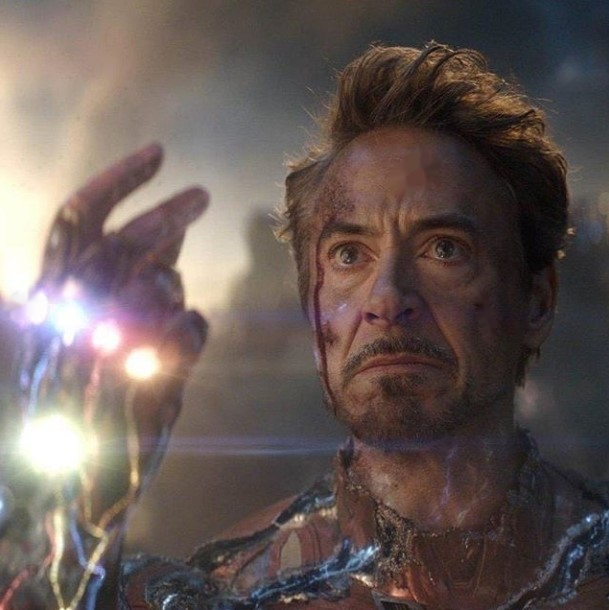
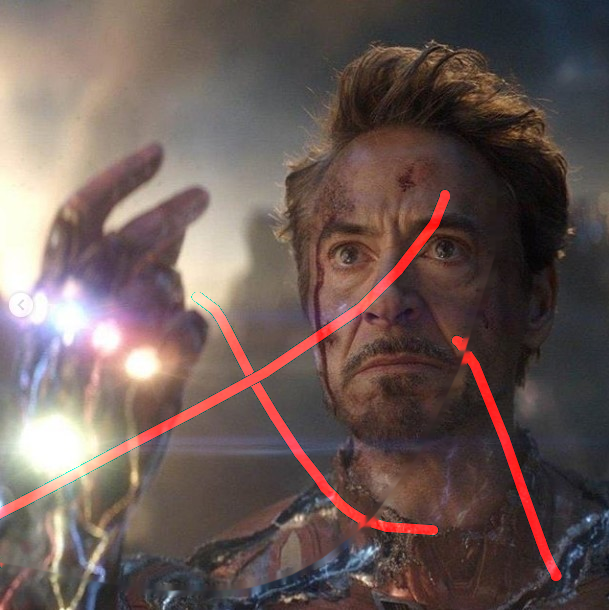
painting only on mask

diff --git a/editor.py b/editor.py
@@ -5,6 +5,7 @@ from PyQt5.QtGui import QImage, QPixmap, QPainterPath, QPen, QPainter
 import numpy as np
 import inpainter
 from qimage2ndarray import rgb_view, array2qimage
+import cv2
 
 class Editor(QtWidgets.QGraphicsView):
 
@@ -30,12 +31,13 @@ class Editor(QtWidgets.QGraphicsView):
         self.drawMode = True
         self.drawing = False
         self.brushSize = 10
-        self.brushColor = Qt.red
+        self.brushColor = "red"
         self.lastPoint = QPoint()
-
+        self.color_index = {"red":0, "green":1, "blue":2}
         #mask
         self._mask = None
         self._unmarkedImage = None
+        self.set_mask = False
 
     def hasPhoto(self):
         return not self._empty
@@ -57,6 +59,10 @@ class Editor(QtWidgets.QGraphicsView):
                 self.scale(factor, factor)
             self._zoom = 0
 
+    def setMask(self):
+        self._mask = QImage(self._photo.pixmap().size(), QImage.Format_RGB32)
+        self._mask.fill(Qt.black)
+
     def setPhoto(self, pixmap=None):
         self._zoom = 0
         if pixmap and not pixmap.isNull():
@@ -67,17 +73,10 @@ class Editor(QtWidgets.QGraphicsView):
             self._empty = True
             self.setDragMode(QtWidgets.QGraphicsView.NoDrag)
             self._photo.setPixmap(QtGui.QPixmap()) 
-        print(self._photo.pixmap().size())
-        
-        self._mask = QImage(self._photo.pixmap().size(), QImage.Format_RGB32)
-        self._mask.fill(Qt.black)
-        self._unmarkedImage = pixmap.toImage()
-        
+        print(self._photo.pixmap().size())      
+        self.setMask()
+        self._unmarkedImage = QImage(pixmap.toImage())   #pixmap.toImage()
         self.fitInView()
-
-    def setMask(self):
-        self._mask = QImage(self._photo.pixmap().size(), QImage.Format_RGB32)
-        self._mask.fill(Qt.black)
 
     def wheelEvent(self, event):
         if self.hasPhoto():
@@ -98,26 +97,27 @@ class Editor(QtWidgets.QGraphicsView):
     def mouseMoveEvent(self, event):
         if self.drawMode:
             if(event.buttons() and Qt.LeftButton) and self.drawing:
-                pixmap = self._photo.pixmap()    
-                painter = QPainter(pixmap)
-                if not painter.isActive():
-                    painter.begin(self)
-                painter.setRenderHint(QPainter.Antialiasing, True)
-                painter.setPen(QPen(self.brushColor, self.brushSize, Qt.SolidLine, Qt.RoundCap, Qt.RoundJoin))
-                painter.drawLine(self.lastPoint, self.mapToScene(event.pos()))
-                painter.end()
+                if self.set_mask:
+                    self.setMask()
+                    img = None
+                    mask = None
+                    self.set_mask = False
 
                 painter = QPainter (self._mask)
                 if not painter.isActive():
                     painter.begin(self)
-                painter.setRenderHint(QPainter.Antialiasing, False)
+                painter.setRenderHint(QPainter.Antialiasing, True)
                 painter.setPen(QPen(Qt.white, self.brushSize, Qt.SolidLine, Qt.RoundCap, Qt.RoundJoin))
                 painter.drawLine(self.lastPoint, self.mapToScene(event.pos()))
                 painter.end()
 
                 self.lastPoint = self.mapToScene(event.pos())
-                self._photo.setPixmap(pixmap)
-
+                img = rgb_view(self._unmarkedImage)
+                mask = rgb_view(self._mask)
+                channel = self.color_index[self.brushColor]
+                ind = (mask[:,:,channel]!=0)
+                img[:,:,channel][ind] = mask[:,:,channel][ind]
+                self._photo.setPixmap(QPixmap(array2qimage(mask))) #img
         super(Editor, self).mouseMoveEvent(event)        
 
     def mousePressEvent(self, event):
@@ -135,38 +135,16 @@ class Editor(QtWidgets.QGraphicsView):
         super(Editor, self).mouseReleaseEvent(event)    
 
     def inpaint(self):
-        img = rgb_view(self._unmarkedImage)
+        unmarked_img = rgb_view(self._unmarkedImage)
+        cv2.imwrite("unmarked.jpg",unmarked_img)                     # BUG_FOUND: Unmarked doesn't stay unmarked!!!
         mask = rgb_view(self._mask)
-        output = array2qimage(inpainter.inpaint(img, mask))
+        cv2.imwrite("mask.jpg",mask)
+        output = array2qimage(inpainter.inpaint(unmarked_img, mask))
+        self.set_mask = True
         output.save("output.png","PNG")
         self._photo.setPixmap(QPixmap(output))
-        
-        
 
-    def QImageToArray(self, qimage):
-        size = qimage.size()         
-        h = size.width()
-        w = size.height()          
-        byte_str = qimage.bits().tobytes()
-        img = np.frombuffer(byte_str, dtype=np.uint8).reshape((w,h,4))     
-        return img    
-
-    def QPixmapToArray(self, pixmap):
-        size = pixmap.size()         
-        h = size.width()
-        w = size.height()          
-        qimg = pixmap.toImage()       
-        byte_str = qimg.bits().tobytes()
-        img = np.frombuffer(byte_str, dtype=np.uint8).reshape((w,h,4))     
-        return img
-
-    def ArrayToQPixmap(self, img):
-        h,w = img.shape
-        return QPixmap(QImage(img.data, h, w, 3*h, QImage.Format_RGB888))  
-
-    def ArrayToQImage(self, img):
-        h,w = img.shape
-        return QImage(img.data, h, w, 3*h, QImage.Format_RGB888)       
+           
 
 class Window(QtWidgets.QWidget):
     def __init__(self):
@@ -195,3 +173,42 @@ if __name__ == '__main__':
     window.setGeometry(500, 300, 800, 600)
     window.show()
     sys.exit(app.exec_())
+
+
+
+
+
+    # def QImageToArray(self, qimage):
+    #     size = qimage.size()         
+    #     h = size.width()
+    #     w = size.height()          
+    #     byte_str = qimage.bits().tobytes()
+    #     img = np.frombuffer(byte_str, dtype=np.uint8).reshape((w,h,4))     
+    #     return img    
+
+    # def QPixmapToArray(self, pixmap):
+    #     size = pixmap.size()         
+    #     h = size.width()
+    #     w = size.height()          
+    #     qimg = pixmap.toImage()       
+    #     byte_str = qimg.bits().tobytes()
+    #     img = np.frombuffer(byte_str, dtype=np.uint8).reshape((w,h,4))     
+    #     return img
+
+    # def ArrayToQPixmap(self, img):
+    #     h,w = img.shape
+    #     return QPixmap(QImage(img.data, h, w, 3*h, QImage.Format_RGB888))  
+
+    # def ArrayToQImage(self, img):
+    #     h,w = img.shape
+    #     return QImage(img.data, h, w, 3*h, QImage.Format_RGB888)    
+    #result = originalImage.copy() result[mask!=0] = (0,0,255)
+
+                # pixmap = self._photo.pixmap()    
+                # painter = QPainter(pixmap)
+                # if not painter.isActive():
+                #     painter.begin(self)
+                # painter.setRenderHint(QPainter.Antialiasing, True)
+                # painter.setPen(QPen(self.brushColor, self.brushSize, Qt.SolidLine, Qt.RoundCap, Qt.RoundJoin))
+                # painter.drawLine(self.lastPoint, self.mapToScene(event.pos()))
+                # painter.end()
